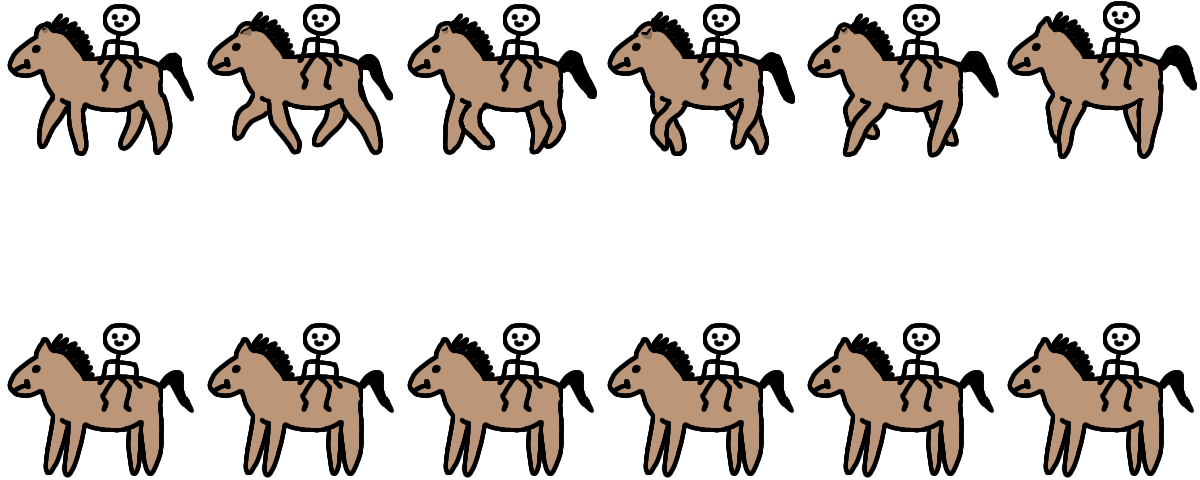
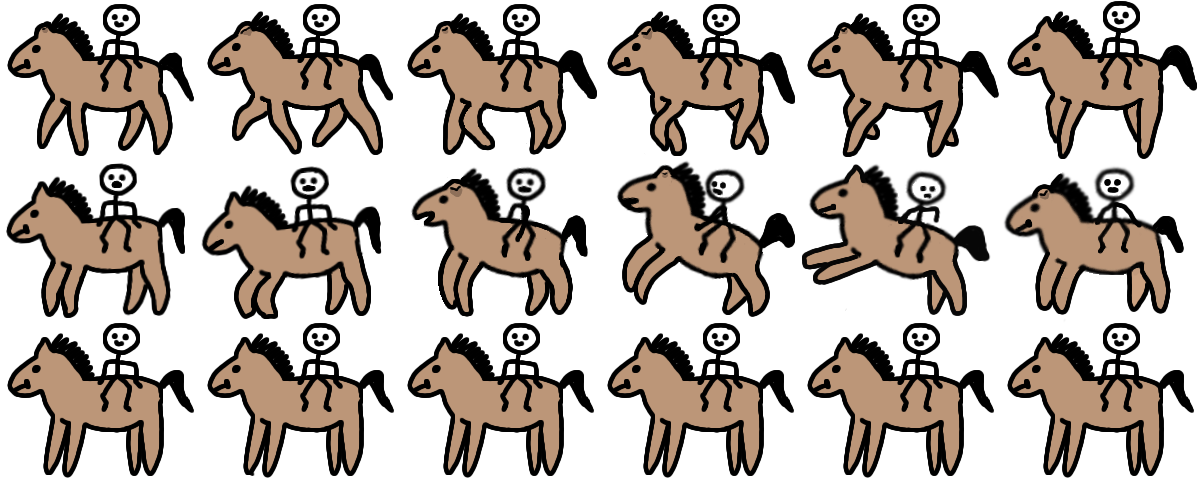
Add chariot attacking aniation

Changed region(s): [[0.0, 0.3438, 0.9867, 0.6875]]

diff --git a/client/src/sprite_supplier.cpp b/client/src/sprite_supplier.cpp
@@ -36,7 +36,7 @@ sprite_supplier::sprite_supplier() {
     const static std::unordered_map<unit_type, std::vector<float>> animation_time_periods{
         {unit_type::PEASANT, {0.5, unit::get_stats(unit_type::PEASANT).attack_duration_s}},
         {unit_type::ARCHER, {1, unit::get_stats(unit_type::ARCHER).attack_duration_s}},
-        {unit_type::CHARIOT, {1.5, 1, unit::get_stats(unit_type::CHARIOT).attack_duration_s}}};
+        {unit_type::CHARIOT, {1.5, unit::get_stats(unit_type::CHARIOT).attack_duration_s, 1}}};
 
     const static std::unordered_map<cannon_type, std::string> cannon_texture_file{
         {cannon_type::STONE_LEVEL_1, "../client/resources/game/cannons/stone/level_1.png"},
@@ -125,6 +125,10 @@ sf::Sprite sprite_supplier::get_unit_sprite(const unit &source_unit, sprite_supp
         if (source_unit.is_walking()) {
             return reflect_if_needed(
                 unit_sprite[source_unit.type()].get_sprite(0, source_unit.walking_time()), side);
+        }
+        if (source_unit.is_attacking()) {
+            return reflect_if_needed(
+                unit_sprite[source_unit.type()].get_sprite(1, source_unit.attack_progress()), side);
         }
         return reflect_if_needed(unit_sprite[source_unit.type()].get_sprite(2, source_unit.attack_progress()),
                                  side);

diff --git a/client/include/animation_handler.h b/client/include/animation_handler.h
@@ -11,7 +11,7 @@ struct animation_handler {
 private:
     sf::Texture m_texture;
     std::vector<float> m_time_period;
-    [[maybe_unused]] int m_rows = 1;  // TODO: think if it will be needed for anything in future
+    int m_rows = 1;  // TODO: think if it will be needed for anything in future
     int m_columns = 1;
     int m_each_width_pxls = 0;
     int m_each_height_pxls = 0;
